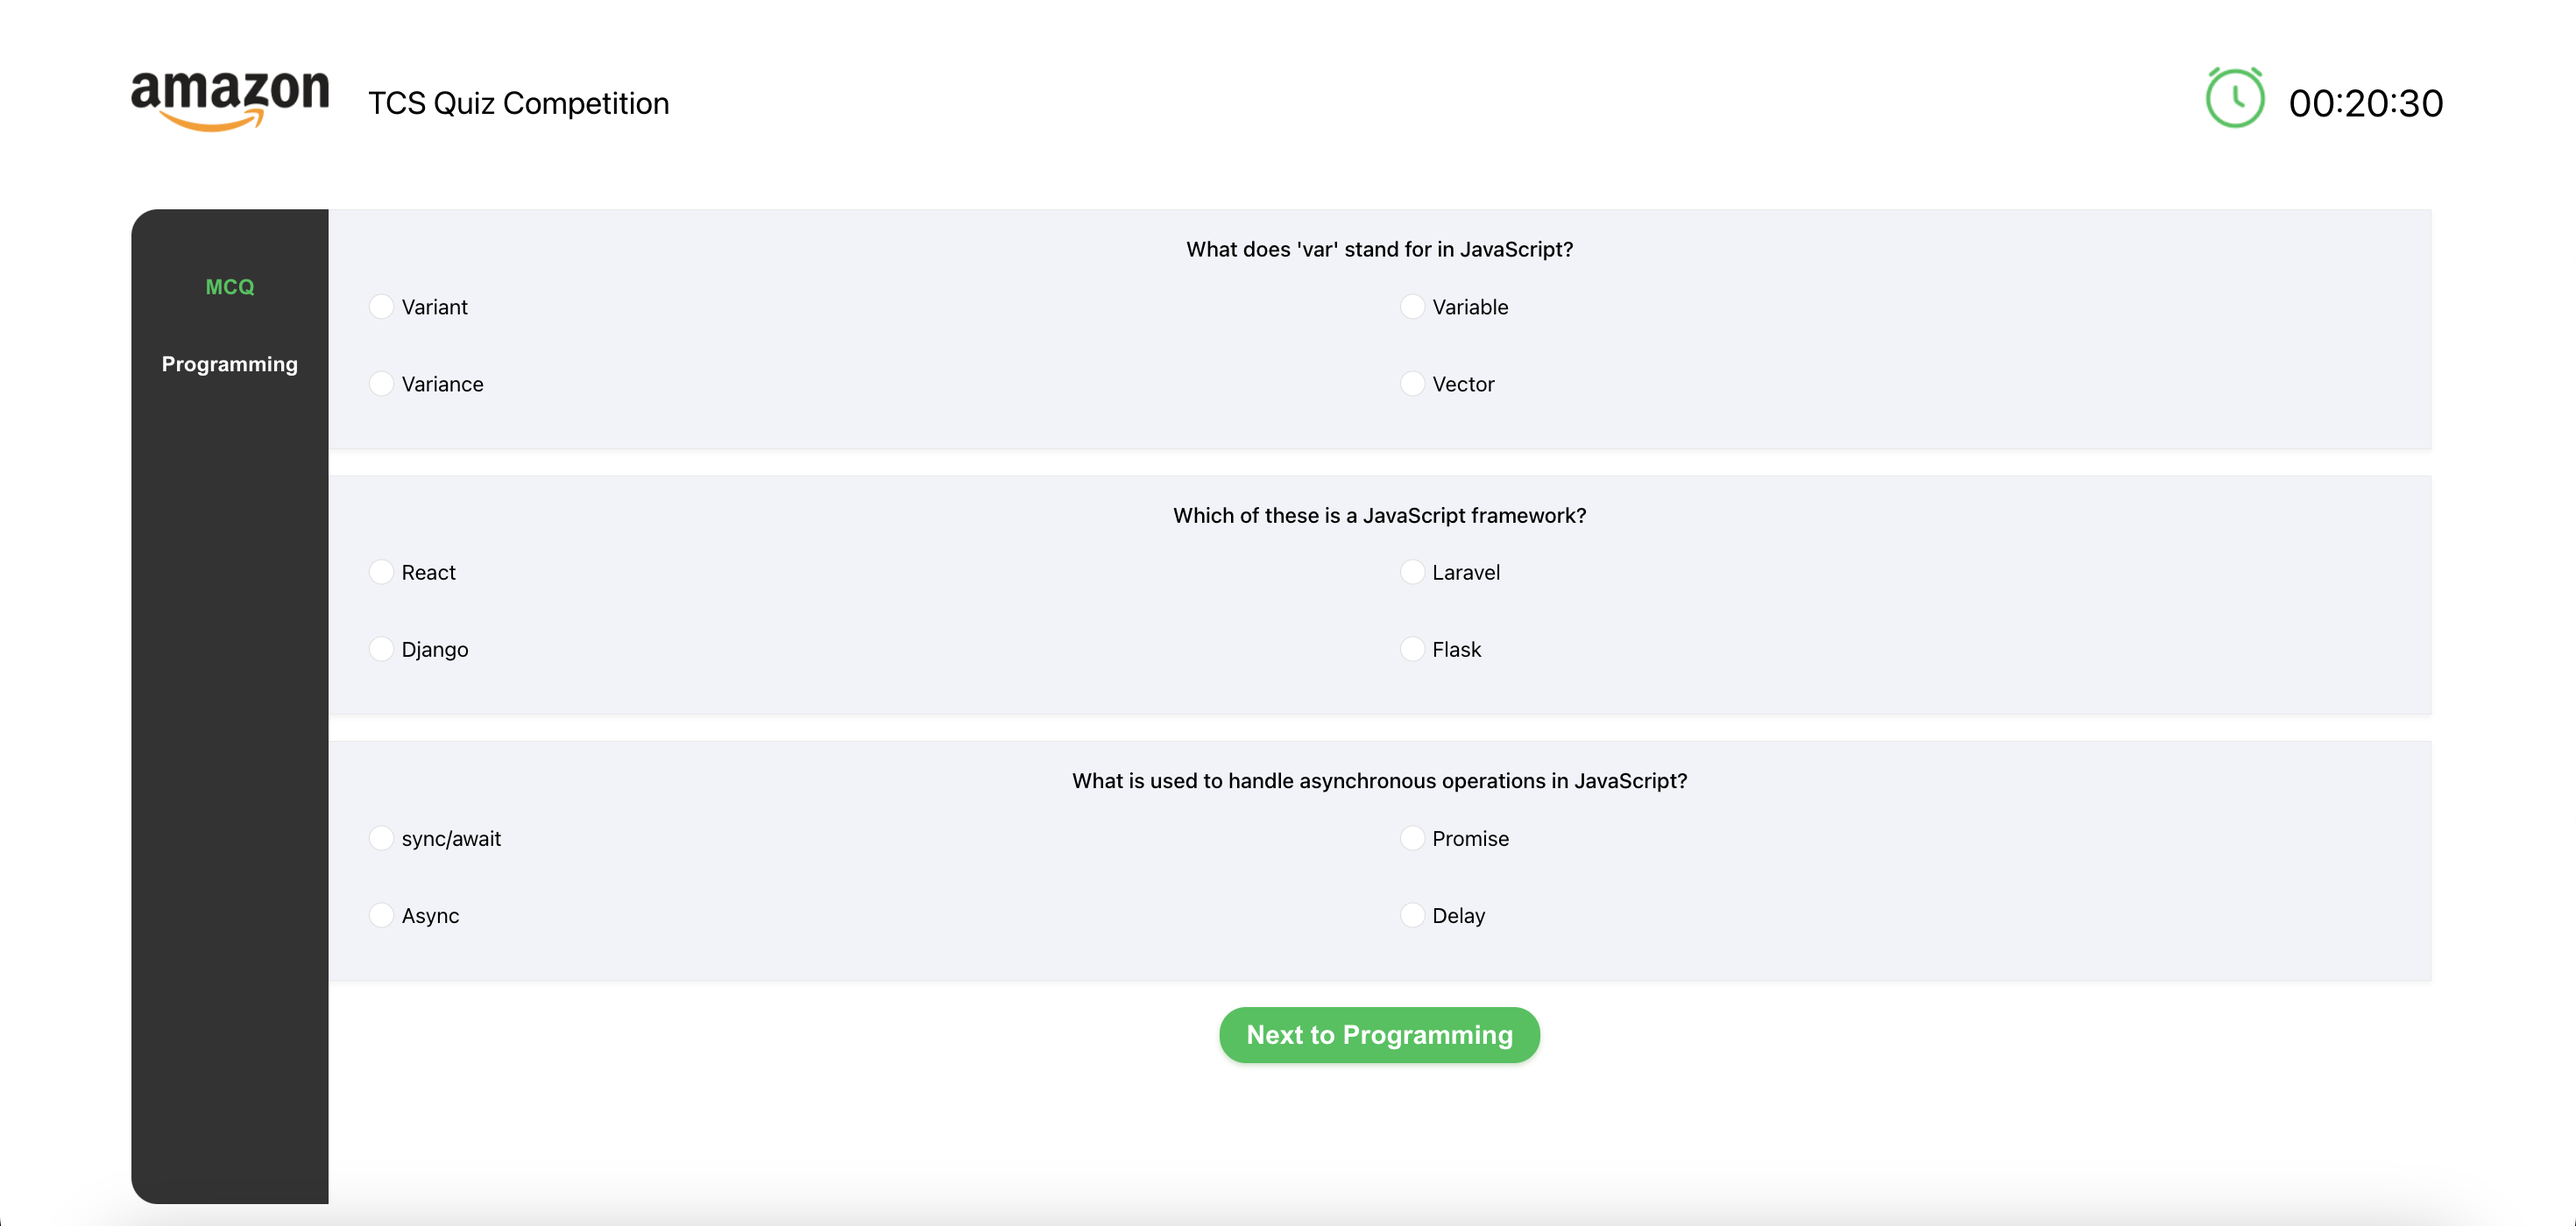
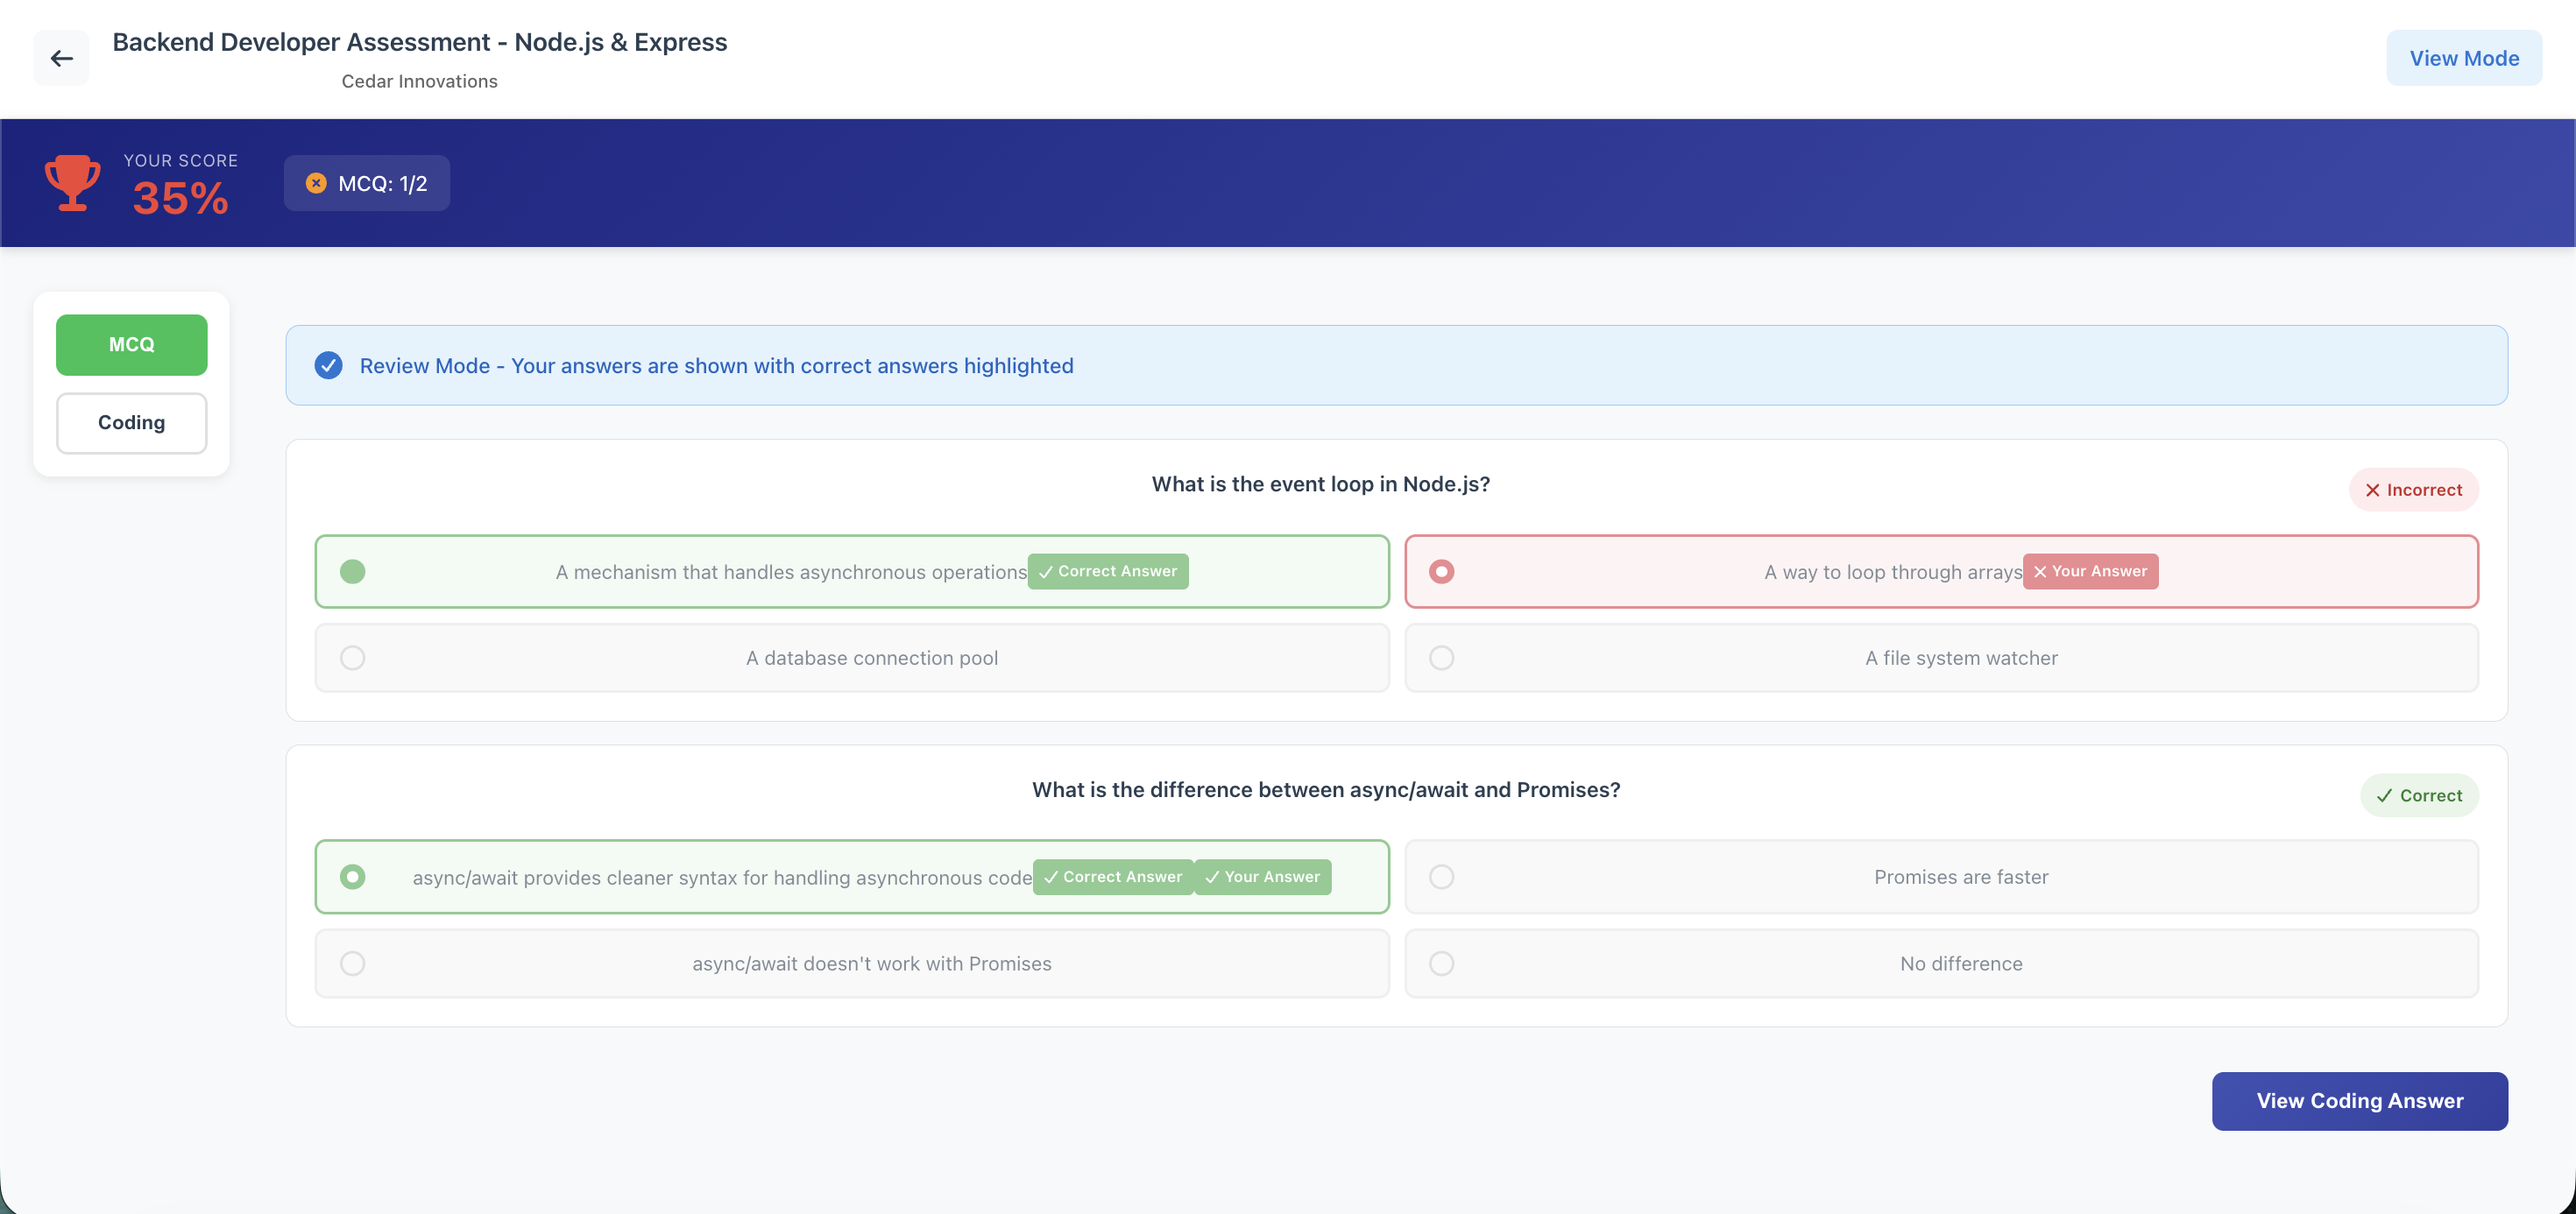
<Docs> Replace AI Battle GIF with PNG image

diff --git a/README.md b/README.md
@@ -107,7 +107,7 @@ https://github.com/Ali-H-Hassan/ByteBattles-CodingAdventure/assets/64877225/b4b5
 
 | AI Battle                                          | Course Selection                                    |
 | -------------------------------------------------- | --------------------------------------------------- |
-| ![AI Battle](./Readme/AIBattle.gif)                | ![Course Selection](./Readme/CourseDisplay.gif)     |
+| ![AI Battle](./Readme/AIBattle.png)                | ![Course Selection](./Readme/CourseDisplay.gif)     |
 | Backend Game Screen                                | Frontend Game Screen                                |
 | ![Backend Game Screen](./Readme/GameScene1.gif)    | ![Frontend Game Screen](./Readme//GameScene2.gif)   |
 | Google Register                                    | Company Dashboard                                   |
